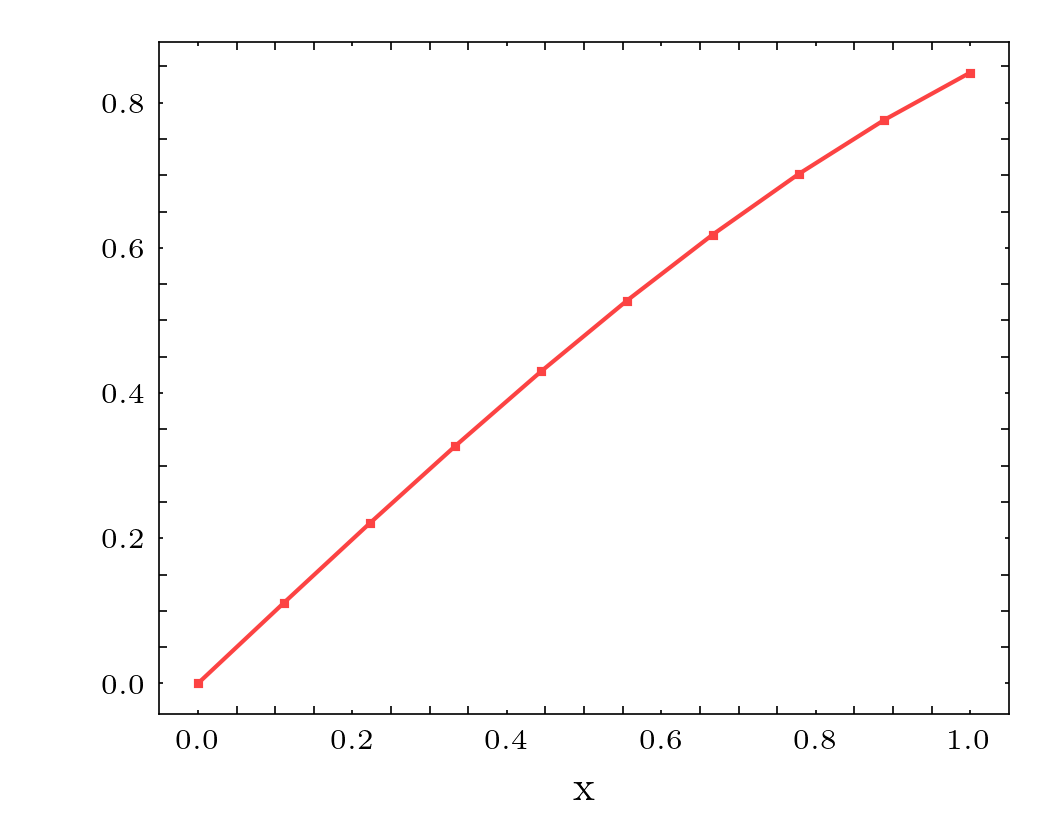
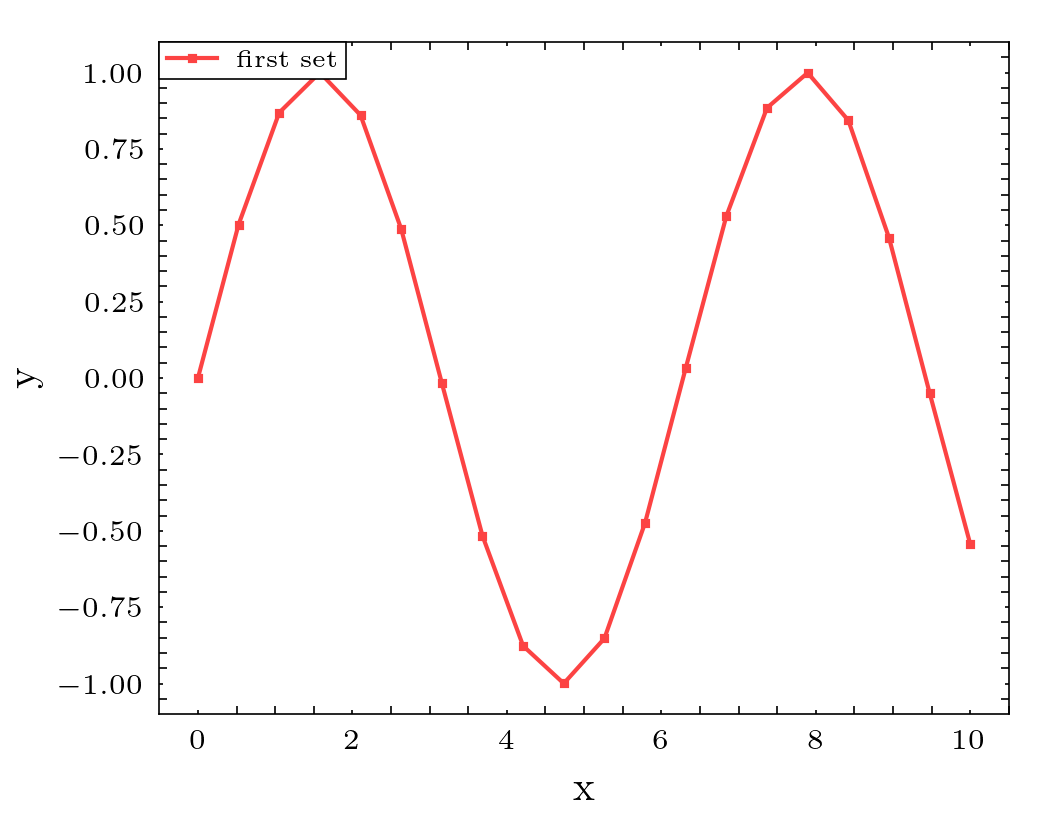
s.e answer 2

diff --git a/_includes/head.html b/_includes/head.html
@@ -1,0 +1,11 @@
+  <script type="text/x-mathjax-config">
+    MathJax.Hub.Config({
+      tex2jax: {
+        skipTags: ['script', 'noscript', 'style', 'textarea', 'pre'],
+        inlineMath: [['$','$']]
+      }
+    });
+  </script>
+  <script src="https://cdn.mathjax.org/mathjax/latest/MathJax.js?config=TeX-AMS-MML_HTMLorMML" type="text/javascript"></script> 
+
+

diff --git a/scripts/quick_plot.py b/scripts/quick_plot.py
@@ -4,10 +4,15 @@ import numpy as np
 
 def quick_plot(fig, axes):
     ax = axes[0]
-    x = np.linspace(0, 1, 10)
-    ax.plot(x, np.sin(x))
+    x = np.linspace(0, 10, 20)
+    ax.plot(x, np.sin(x), label="first set")
 
     ax.set_xlabel("x")
+    ax.set_ylabel("y")
+
+    # legend
+    legend = ax.legend(loc="upper left", bbox_to_anchor=[0, 1])
+    legend.get_frame().set_linewidth(0.4)
 
 def main():
     plt.style.use("half_width_fig")
@@ -19,7 +24,7 @@ def main():
 
     # showing or saving
     if input("save?") == "y":
-        plt.savefig("figures/quick_plot.png")
+        plt.savefig("lecture-notes/figures/quick_plot.png")
     plt.show()
 
 

diff --git a/scripts/tikz_plot.py b/scripts/tikz_plot.py
@@ -47,6 +47,8 @@ def arrowed_spines(fig, ax, x_label="x", y_label="f(x)"):
     ax.text(xmax - 0.1*x_range, -0.1*y_range, x_label, fontsize=12)
     ax.text(- 0.14*x_range, y_range - 0.1*y_range, y_label, fontsize=12)
 
+    ax.grid()
+
 def main():
     # plot
     plt.style.use("half_width_fig")

diff --git a/README.md b/README.md
@@ -24,11 +24,10 @@ part of the course.
 ## Lectures:
 [Lecture 1](/lecture-notes/lecture_notes.1.md)
 
-> #### Test for $\LaTeX$
-> $$ a \implies b $$
+> $$ \LaTeX \qquad a \implies b $$
 
 ### Test for Images
-<img src="lecture-notes/figures/tikz_plt.png" width=300 />
+<img src="lecture-notes/figures/quick_plot.png" width=300 />
 
 
 ## Todo:
